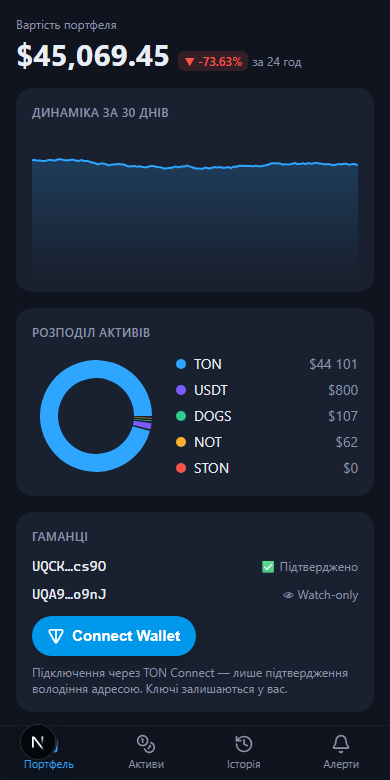
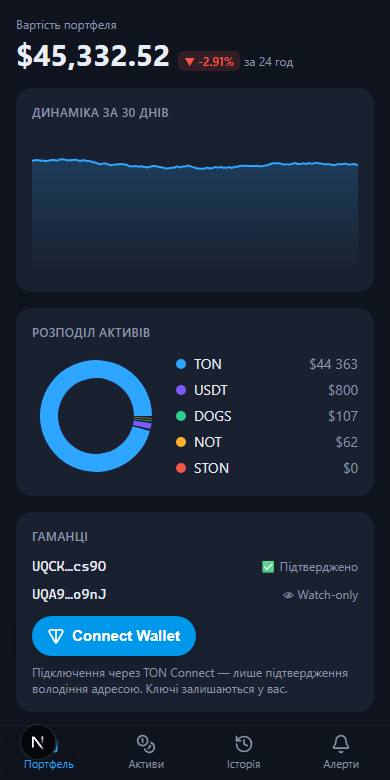
fix(db): pin the synthetic price walk to current base prices
Seeded history now ends at the configured base price, so the 24h delta
against live quotes stays realistic instead of showing a huge artificial
drop. Base prices refreshed to mid-2026 levels; screenshots retaken.

Changed region(s): [[0.5231, 0.0615, 0.7692, 0.0923], [0.1846, 0.0615, 0.4308, 0.0923], [0.8615, 0.4615, 0.9231, 0.4923]]

diff --git a/packages/db/prisma/seed.ts b/packages/db/prisma/seed.ts
@@ -41,7 +41,7 @@ const ASSETS: AssetSeed[] = [
     decimals: 9,
     jettonMaster: null,
     coingeckoId: 'the-open-network',
-    basePriceUsd: 5.42,
+    basePriceUsd: 1.69,
     hourlyVolatility: 0.008,
   },
   {
@@ -61,7 +61,7 @@ const ASSETS: AssetSeed[] = [
     decimals: 9,
     jettonMaster: '0:2f956143c461769579baef2e32cc2d7bc18283f40d20bb03e432cd603ac33ffc',
     coingeckoId: 'notcoin',
-    basePriceUsd: 0.00185,
+    basePriceUsd: 0.00095,
     hourlyVolatility: 0.015,
   },
   {
@@ -71,7 +71,7 @@ const ASSETS: AssetSeed[] = [
     decimals: 9,
     jettonMaster: '0:afc49cb8786f21c87045b19ede78fc6b46c51048513f8e9a6d44060199c1bf0c',
     coingeckoId: 'dogs-2',
-    basePriceUsd: 0.00052,
+    basePriceUsd: 0.00013,
     hourlyVolatility: 0.02,
   },
   {
@@ -81,7 +81,7 @@ const ASSETS: AssetSeed[] = [
     decimals: 9,
     jettonMaster: '0:3690254dc15b2297610cda60744a45f2b710aa4234b89adb630e99d79b01bd4f',
     coingeckoId: 'ston',
-    basePriceUsd: 0.55,
+    basePriceUsd: 0.31,
     hourlyVolatility: 0.012,
   },
   {
@@ -183,17 +183,20 @@ async function main(): Promise<void> {
     if (!asset) continue;
     const random = mulberry32(seed.symbol.charCodeAt(0) * 7919 + seed.decimals);
     let price = seed.basePriceUsd;
-    const ticks = [];
+    const walk: number[] = [];
     for (let hour = 0; hour <= HISTORY_HOURS; hour += 1) {
       price *= 1 + (random() - 0.5) * 2 * seed.hourlyVolatility;
-      ticks.push({
-        assetId: asset.id,
-        priceUsd: toFiat(price),
-        priceUah: toFiat(price * UAH_PER_USD),
-        source: 'seed',
-        takenAt: new Date(historyStart + hour * HOUR_MS),
-      });
+      walk.push(price);
     }
+    // pin the walk's endpoint to basePrice so seeded history meets live quotes
+    const factor = seed.basePriceUsd / (walk.at(-1) ?? seed.basePriceUsd);
+    const ticks = walk.map((value, hour) => ({
+      assetId: asset.id,
+      priceUsd: toFiat(value * factor),
+      priceUah: toFiat(value * factor * UAH_PER_USD),
+      source: 'seed',
+      takenAt: new Date(historyStart + hour * HOUR_MS),
+    }));
     await prisma.priceTick.createMany({ data: ticks });
     tickCount += ticks.length;
   }